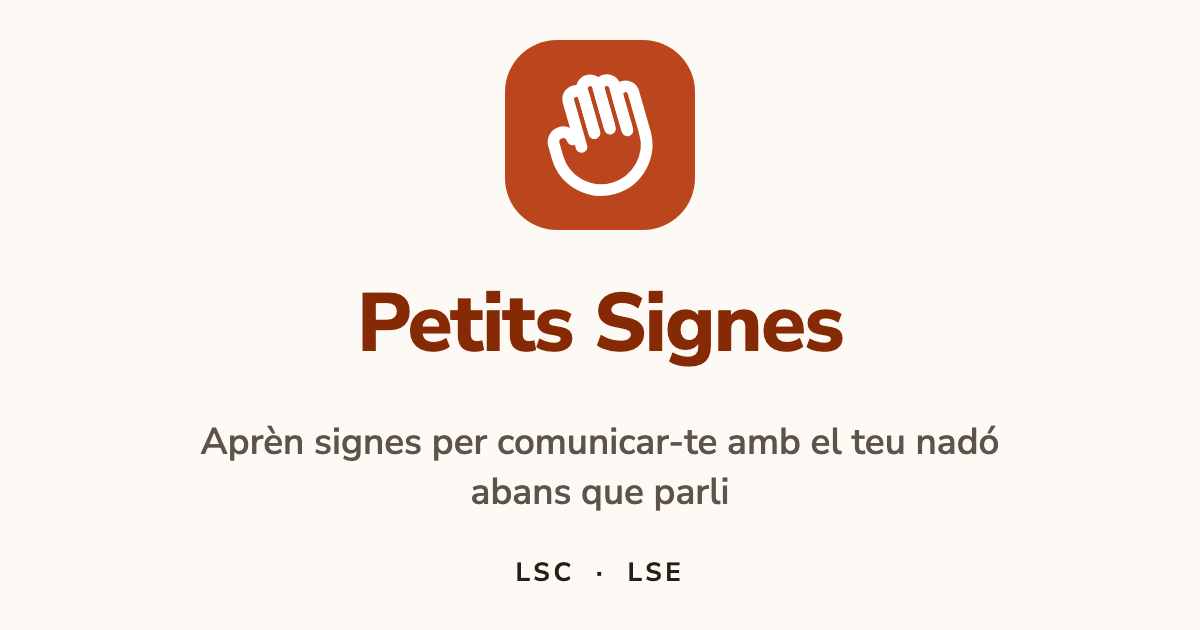
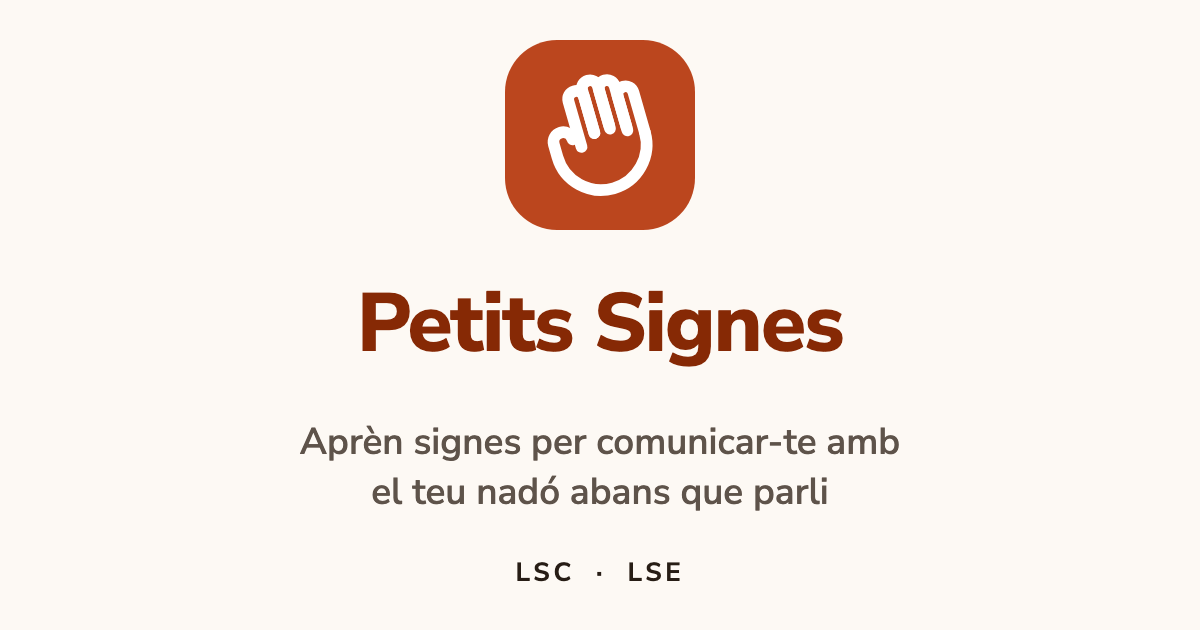
feat(seo): give each locale its own social card, and name it properly
`og:locale` said `ca` and `es`: the `<html lang>` form, not the
language_TERRITORY one Open Graph reads, so a share sheet was left to
guess. It is now `ca_ES` / `es_ES`, and every indexable page names the
other locale as `og:locale:alternate`, the way `hreflang` already does
for crawlers.

The one social card was Catalan, so a link pasted into a Spanish
conversation previewed a Catalan sentence. `brand:assets` now renders
one card per routed locale from that locale's own `site.tagline`,
through the same translator the pages use instead of a regex that only
ever found the first language. The Catalan card keeps the name
`og.png`, so previews already cached for shared links stay valid; the
Spanish one is `og-es.png`.

The tagline on the card is balanced rather than filled. Filled, the
Spanish one left "de que hable" alone on its line, and balancing alone
broke the Catalan one at its hyphen, so hyphenated words are kept
whole. That is the only visible change to `og.png`; the icons were
regenerated byte-identical and are not in this commit.

The a11y spec now fetches the card each page declares, and seo.spec
checks every page's locale tags and reads both PNG headers for the
1200×630 the pages declare.

Changed region(s): [[0.1542, 0.6635, 0.8325, 0.754], [0.3083, 0.754, 0.7092, 0.8143]]

diff --git a/scripts/brand-assets.ts b/scripts/brand-assets.ts
@@ -1,5 +1,5 @@
 /**
- * Renders the brand PNGs: the social card and the home-screen icons.
+ * Renders the brand PNGs: the social card of each locale and the home-screen icons.
  *
  *   npm run brand:assets
  *
@@ -29,6 +29,9 @@ import {
   BRAND_MARK_TRANSFORM,
   BRAND_MARK_VIEWBOX,
 } from '../src/lib/brand.ts';
+import { createTranslator } from '../src/lib/i18n.ts';
+import { ROUTED_LOCALES } from '../src/lib/routing.ts';
+import { OG_IMAGES, OG_IMAGE_HEIGHT, OG_IMAGE_WIDTH } from '../src/lib/seo.ts';
 
 const ROOT = path.resolve(fileURLToPath(import.meta.url), '../..');
 const PUBLIC_DIR = path.join(ROOT, 'public');
@@ -79,6 +82,11 @@ function iconHtml(b: Brand, size: number): string {
 /**
  * The social card. Kept to the wordmark, the tagline and a lot of quiet space:
  * a WhatsApp preview is read at thumbnail size, so anything more becomes noise.
+ *
+ * The tagline is balanced rather than filled: filled, the Spanish one broke as
+ * "…con tu bebé antes / de que hable", three words stranded on a line of their
+ * own at the size the card is read at. Balancing alone then split the Catalan
+ * one at its hyphen, "comunicar- / te", so a hyphenated word is kept whole.
  */
 function ogHtml(b: Brand, title: string, tagline: string): string {
   const badge = 190;
@@ -93,8 +101,9 @@ function ogHtml(b: Brand, title: string, tagline: string): string {
     <div style="font-size:82px;font-weight:800;color:${b.brandInk};letter-spacing:-0.02em">
       ${title}
     </div>
-    <div style="font-size:37px;font-weight:600;color:${b.inkMuted};line-height:1.35;max-width:900px">
-      ${tagline}
+    <div style="font-size:37px;font-weight:600;color:${b.inkMuted};line-height:1.35;max-width:900px;
+      text-wrap:balance">
+      ${tagline.replace(/(\S+-\S+)/g, '<span style="white-space:nowrap">$1</span>')}
     </div>
     <div style="font-size:26px;font-weight:700;color:${b.ink};letter-spacing:0.14em">
       LSC &nbsp;·&nbsp; LSE
@@ -122,17 +131,24 @@ async function main(): Promise<void> {
   const brand = await readBrand();
   const font = await fontFace();
 
-  // The card speaks to whoever is pasting the link, so it uses the default
-  // locale's own words rather than a string invented for the image.
-  const i18n = await readFile(path.join(ROOT, 'src/lib/i18n.ts'), 'utf8');
-  const title = extract(i18n, /'site\.title':\s*'([^']+)'/, 'the site title');
-  const tagline = extract(i18n, /'site\.tagline':\s*'([^']+)'/, 'the site tagline');
+  // The card speaks to whoever is pasting the link, so each locale's card uses
+  // that locale's own words rather than a string invented for the image — read
+  // through the same translator the pages use, not scraped from the source.
+  const cards = ROUTED_LOCALES.map((locale) => {
+    const t = createTranslator(locale);
+    return {
+      file: OG_IMAGES[locale].replace(/^\//, ''),
+      html: ogHtml(brand, t('site.title'), t('site.tagline')),
+      width: OG_IMAGE_WIDTH,
+      height: OG_IMAGE_HEIGHT,
+    };
+  });
 
   await mkdir(PUBLIC_DIR, { recursive: true });
   const browser = await chromium.launch();
 
   const shots: { file: string; html: string; width: number; height: number }[] = [
-    { file: 'og.png', html: ogHtml(brand, title, tagline), width: 1200, height: 630 },
+    ...cards,
     { file: 'apple-touch-icon.png', html: iconHtml(brand, 180), width: 180, height: 180 },
     { file: 'icon-192.png', html: iconHtml(brand, 192), width: 192, height: 192 },
     { file: 'icon-512.png', html: iconHtml(brand, 512), width: 512, height: 512 },

diff --git a/tests/e2e/seo.spec.ts b/tests/e2e/seo.spec.ts
@@ -29,6 +29,7 @@ interface BuiltPage {
   path: string;
   locale: 'ca' | 'es';
   kind: Kind;
+  og: { locale: string | null; alternates: string[]; image: string | null };
   title: string;
   description: string;
   noindex: boolean;
@@ -69,6 +70,13 @@ const PAGES: BuiltPage[] = htmlFiles(DIST).map((file) => {
     path,
     locale: path.startsWith('/es/') ? 'es' : 'ca',
     kind: kindOf(path),
+    og: {
+      locale: html.match(/<meta property="og:locale" content="([^"]*)"/)?.[1] ?? null,
+      alternates: [...html.matchAll(/<meta property="og:locale:alternate" content="([^"]*)"/g)].map(
+        (match) => match[1]!,
+      ),
+      image: html.match(/<meta property="og:image" content="([^"]*)"/)?.[1] ?? null,
+    },
     title: decode(html.match(/<title>([^<]*)<\/title>/)?.[1] ?? ''),
     description: decode(html.match(/<meta name="description" content="([^"]*)"/)?.[1] ?? ''),
     noindex: /<meta name="robots" content="noindex/.test(html),
@@ -251,5 +259,47 @@ test.describe('descriptions', () => {
     expect(page('/es/').description).toMatch(
       /^\d+ signos reales de la lengua de signos española \(LSE\) /,
     );
+  });
+});
+
+test.describe('the social card', () => {
+  const OG = { ca: 'ca_ES', es: 'es_ES' } as const;
+  const OTHER = { ca: 'es_ES', es: 'ca_ES' } as const;
+
+  /**
+   * Open Graph wants language and territory. The pages said `ca` and `es`,
+   * which is the `<html lang>` form and not one a share sheet reads, so the
+   * card's language was left to be guessed from its text.
+   */
+  test('every page names its locale the way Open Graph reads it, and offers the other', () => {
+    for (const { path, locale, og, noindex } of PAGES) {
+      expect(og.locale, path).toBe(OG[locale]);
+      expect(og.alternates, path).toEqual(noindex ? [] : [OTHER[locale]]);
+    }
+  });
+
+  /**
+   * A link pasted into a Spanish conversation previewed a Catalan sentence.
+   * Each locale now declares its own card, and the file has to be the one
+   * declared, at the size declared: read off disk, from the PNG header itself,
+   * so a card regenerated at the wrong size fails here rather than in a chat.
+   */
+  test('each locale shares a card in its own language, at the size it declares', () => {
+    const declared = new Map<string, Set<string>>();
+    for (const { locale, og } of PAGES) {
+      const set = declared.get(locale) ?? new Set<string>();
+      set.add(new URL(og.image!).pathname);
+      declared.set(locale, set);
+    }
+
+    expect([...declared.get('ca')!]).toEqual(['/og.png']);
+    expect([...declared.get('es')!]).toEqual(['/og-es.png']);
+
+    for (const file of ['og.png', 'og-es.png']) {
+      const png = readFileSync(resolve(DIST, file));
+      // The IHDR chunk: width and height, big-endian, at bytes 16 and 20.
+      expect(png.subarray(1, 4).toString('latin1'), file).toBe('PNG');
+      expect([png.readUInt32BE(16), png.readUInt32BE(20)], file).toEqual([1200, 630]);
+    }
   });
 });

diff --git a/src/lib/seo.ts b/src/lib/seo.ts
@@ -26,10 +26,24 @@ import { SITE_ORIGIN } from './site.ts';
  */
 export const SITE_PATHS = ['/', '/el-projecte/', '/credits/', '/accessibilitat/'] as const;
 
-/** The social card. 1200×630 is what every major platform crops from. */
-export const OG_IMAGE = '/og.png';
+/**
+ * The social card, one per locale: a link pasted into a Spanish conversation
+ * previews in Spanish. Rendered by `npm run brand:assets` from each locale's own
+ * strings. The Catalan card keeps the name it has always had, so previews that
+ * apps have already cached for shared links stay valid.
+ *
+ * 1200×630 is what every major platform crops from.
+ */
+export const OG_IMAGES: Record<RoutedLocale, string> = { ca: '/og.png', es: '/og-es.png' };
 export const OG_IMAGE_WIDTH = 1200;
 export const OG_IMAGE_HEIGHT = 630;
+
+/**
+ * Open Graph names a locale as language and territory, `ca_ES`, not the bare
+ * `ca` of `<html lang>` — and a value outside that form is ignored, which
+ * leaves the platform guessing the language of the card from its text.
+ */
+export const OG_LOCALES: Record<RoutedLocale, string> = { ca: 'ca_ES', es: 'es_ES' };
 
 /** Home-screen icons. Apple ignores the manifest, hence the separate 180. */
 export const APPLE_TOUCH_ICON = '/apple-touch-icon.png';

diff --git a/tests/e2e/a11y.spec.ts b/tests/e2e/a11y.spec.ts
@@ -953,12 +953,14 @@ test('every page offers a social card that a share sheet can actually fetch', as
     expect(card.height, path).toBe('630');
     expect(card.alt, path).toBeTruthy();
     expect(card.twitter, path).toBe('summary_large_image');
-  }
 
-  // The file has to exist as well as be declared: a 404 here is a blank card.
-  const response = await page.request.get('/og.png');
-  expect(response.status()).toBe(200);
-  expect(response.headers()['content-type']).toContain('image/png');
+    // The file has to exist as well as be declared: a 404 here is a blank
+    // card. Fetched by the path each page declares, because each locale
+    // declares its own.
+    const response = await page.request.get(new URL(card.image!).pathname);
+    expect(response.status(), path).toBe(200);
+    expect(response.headers()['content-type'], path).toContain('image/png');
+  }
 });
 
 /**
